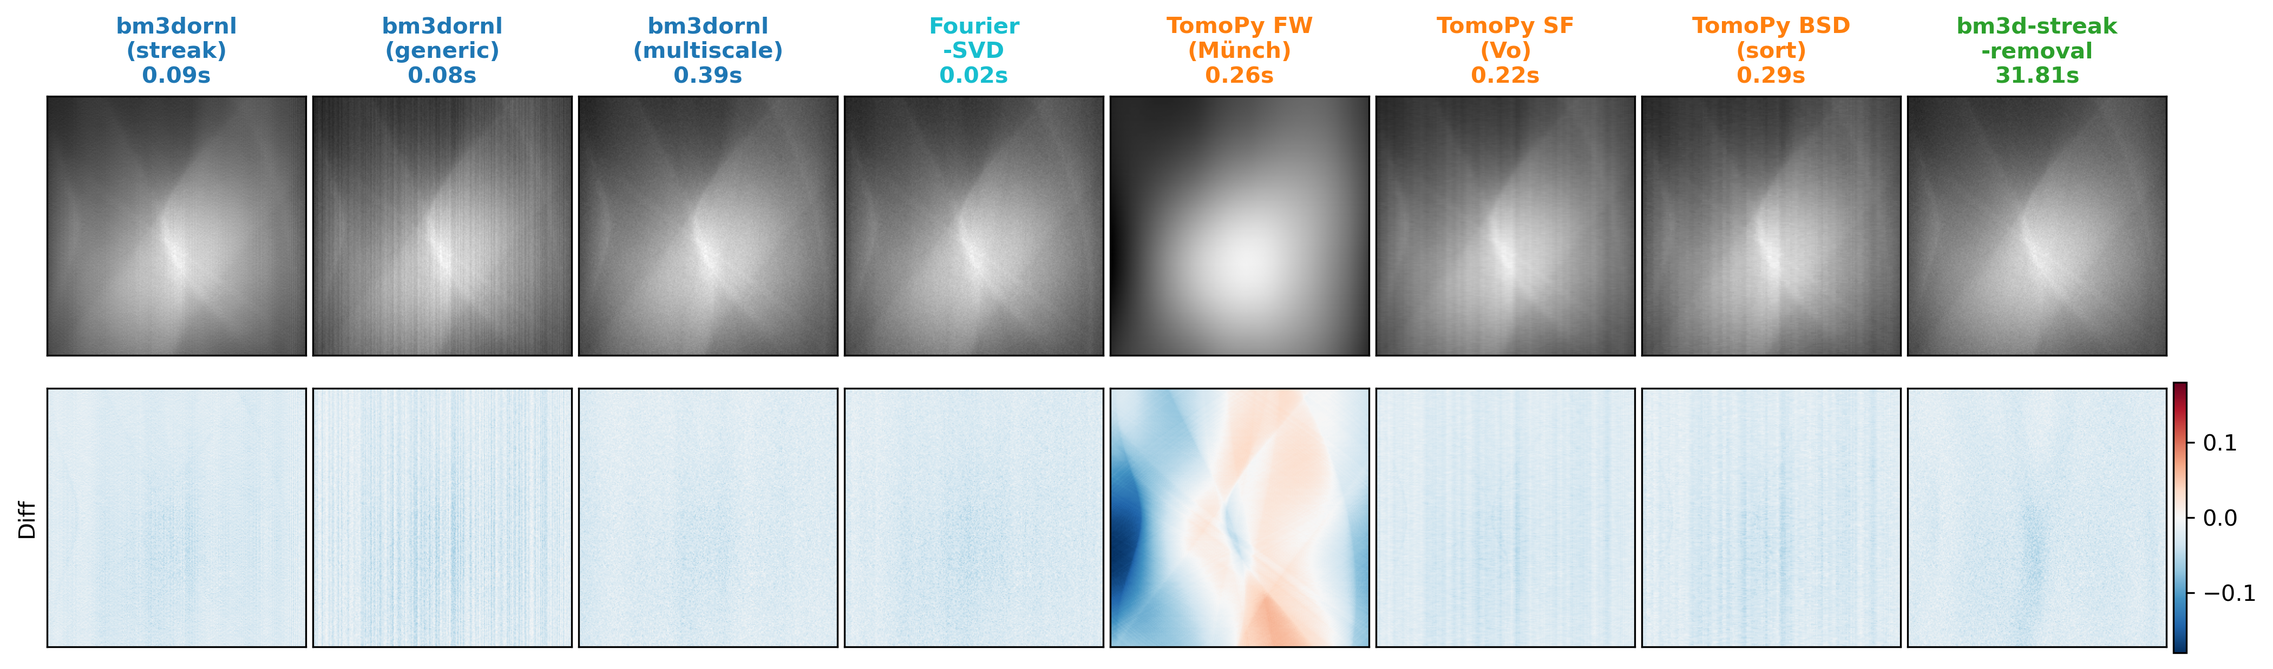
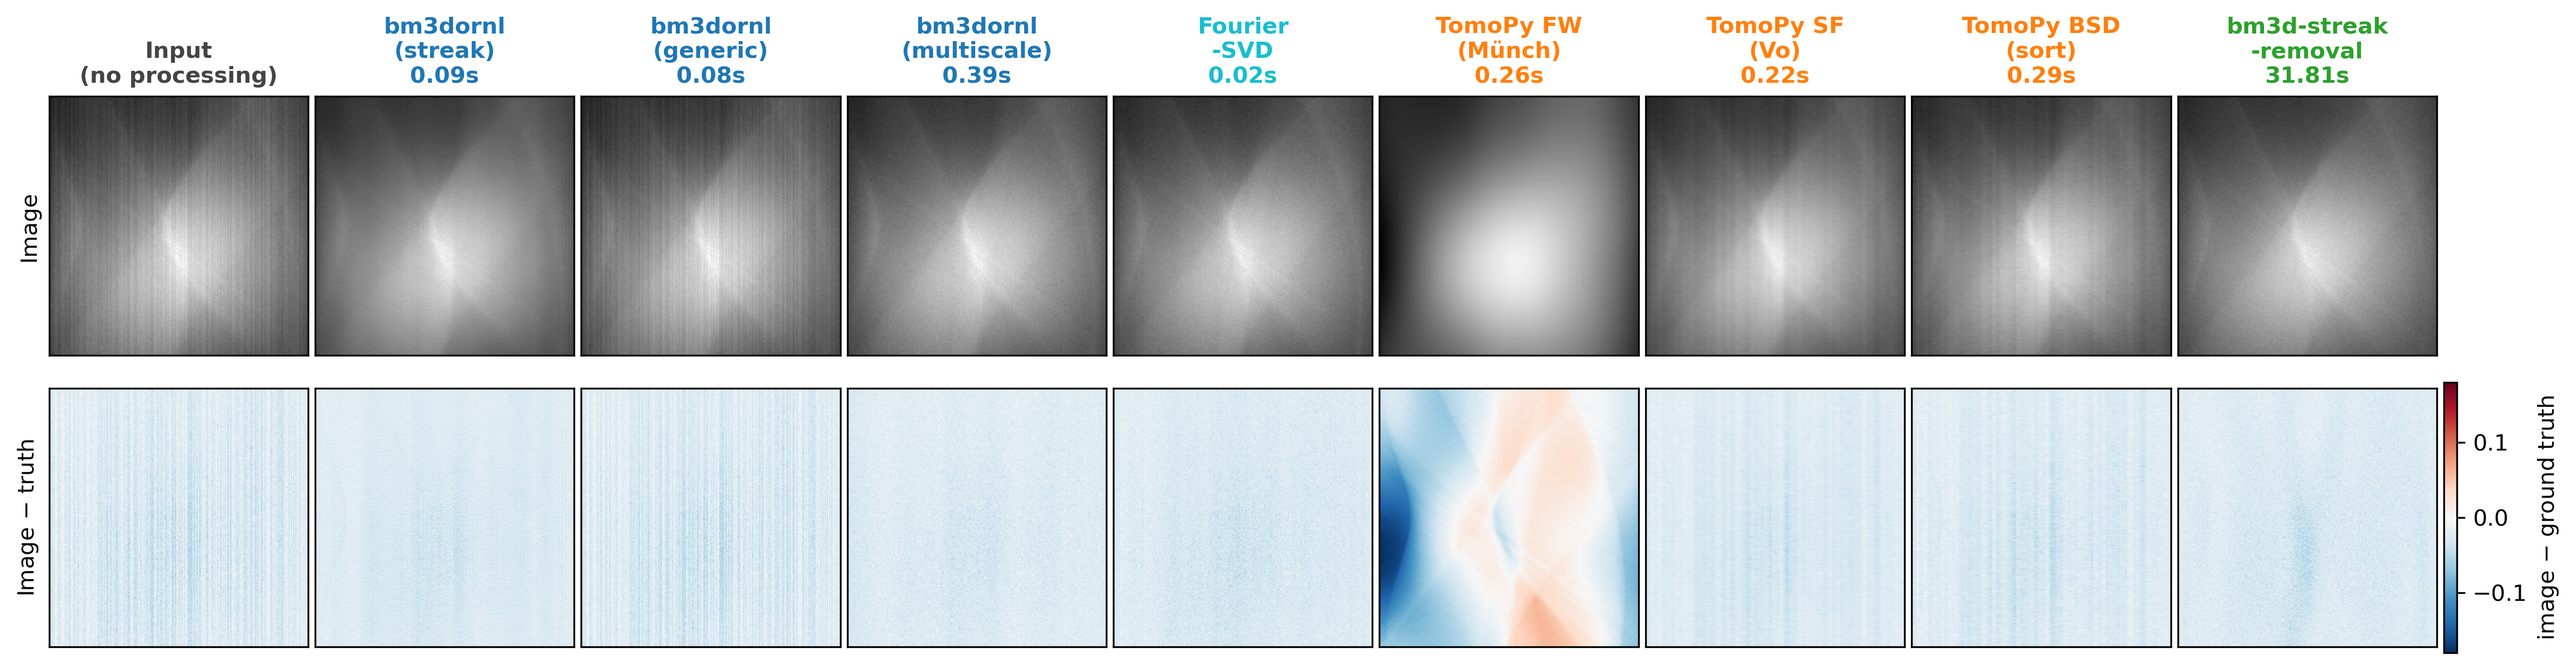
paper: fix the Figure 2 difference convention, add the input column, define SSIM and PSNR
The JOSS reviewer's three paper comments (#142). Figure 2's caption read the difference images (result minus ground truth) as blue = artifact removal, red = added artifacts; the sign of a residual carries no such meaning. The caption and the quality paragraph now describe the residual as image minus ground truth (red above, blue below, white agreement). A first column shows the unprocessed input and its residual so the artifacts are visible before any method runs. The uniform blue tint shared by every column, input included, is explained: the benchmark rescales the artifact-laden input to [0, 1], which pins its brightest column to the ground truth maximum and leaves the bulk 3-4% low, and stripe removal preserves that level; the metrics normalise both images and do not see it. Per-method statements are backed by a residual decomposition (global a*truth+b fit removed, then column-mean RMS vs remainder) run on the benchmark outputs: generic BM3D leaves the stripes essentially unchanged, streak/multiscale/Fourier-SVD/bm3d-streak-removal reduce them 2.5-4.5x, TomoPy SF/BSD leave somewhat more stripe but halve the pixel noise, which is what the normalised metrics reward. SSIM and PSNR are defined at first use in the text and in the Figure 3 caption; Wang et al. 2004 added to the bibliography for SSIM. Figures 1 and 3 are untouched.

Assisted-With: Claude Fable 5 <noreply@anthropic.com>

diff --git a/paper/generate_figures.py b/paper/generate_figures.py
@@ -4,7 +4,7 @@ Generate publication-quality figures for JOSS paper.
 
 Produces three separate figures:
 - Figure 1: Input (with ring artifacts) + Ground Truth (clean)
-- Figure 2: Method results (cropped) + Difference images
+- Figure 2: Unprocessed input + method results (cropped) + Difference images
 - Figure 3: Metrics (Processing time + PSNR vs SSIM)
 """
 
@@ -187,20 +187,27 @@ def figure2_results_diff(data):
     """
     Figure 2: Method results (cropped regions) + Difference images
 
-    Layout: 6 columns × 2 rows + colorbar column
-    Row 1: Cropped results for each method
-    Row 2: Difference from ground truth
+    Layout: 9 image columns × 2 rows + colorbar column
+    Column 1: the unprocessed input, so the reader sees what the artifacts
+              look like before any method runs
+    Columns 2-9: one per method
+    Row 1: Cropped image
+    Row 2: Difference from ground truth (image minus ground truth)
     Colorbar: spans row 2 only (applies to diff images)
     """
     # Extract cropped ground truth for diff calculation
     gt_crop = data["ground_truth"][CROP_Y, CROP_X]
 
+    # Column definitions: the input first, then every method. The input has
+    # no processing time, so its title carries no timing line.
+    columns = [{"key": "input", "name": "Input\n(no processing)", "color": "#444444", "timed": False}]
+    columns += [dict(method, timed=True) for method in METHODS]
+
     # Prepare cropped data
     crops = []
     diffs = []
-    for method in METHODS:
-        result = data[method["key"]]
-        crop = result[CROP_Y, CROP_X]
+    for column in columns:
+        crop = data[column["key"]][CROP_Y, CROP_X]
         crops.append(crop)
         diffs.append(crop - gt_crop)
 
@@ -212,49 +219,54 @@ def figure2_results_diff(data):
     diff_vmin, diff_vmax = -diff_absmax, diff_absmax
 
     # Create figure with GridSpec
-    # 8 image columns + 1 narrow colorbar column
+    # 9 image columns (input + 8 methods) + 1 narrow colorbar column
     # Crop is 250x250 pixels, so aspect is 1:1
-    # Figure width: 8 images + colorbar, height: 2 rows
-    fig = plt.figure(figsize=(17, 4.5), dpi=DPI)
+    n_images = len(columns)
+    fig = plt.figure(figsize=(2.125 * n_images, 4.5), dpi=DPI)
     gs = GridSpec(
-        2, 9,  # 2 rows, 9 columns (8 images + 1 colorbar)
+        2, n_images + 1,
         figure=fig,
-        width_ratios=[1, 1, 1, 1, 1, 1, 1, 1, 0.05],  # colorbar is narrow
+        width_ratios=[1] * n_images + [0.05],  # colorbar is narrow
         height_ratios=[1, 1],
         wspace=0.03,
         hspace=0.08
     )
 
-    # Row 1: Cropped results
-    for i, (method, crop) in enumerate(zip(METHODS, crops)):
+    # Row 1: Cropped images
+    for i, (column, crop) in enumerate(zip(columns, crops)):
         ax = fig.add_subplot(gs[0, i])
         ax.imshow(crop, cmap="gray", aspect=1, vmin=crop_vmin, vmax=crop_vmax)
 
-        # Title with method name and time
-        time_str = f"{METRICS[method['key']]['time']:.2f}s"
-        title = f"{method['name']}\n{time_str}"
-        ax.set_title(title, fontsize=ANNOTATION_SIZE, color=method["color"], fontweight="bold")
+        # Title with name and, for methods, processing time
+        title = column["name"]
+        if column["timed"]:
+            title += f"\n{METRICS[column['key']]['time']:.2f}s"
+        ax.set_title(title, fontsize=ANNOTATION_SIZE, color=column["color"], fontweight="bold")
 
         ax.set_xticks([])
         ax.set_yticks([])
 
-    # Row 2: Difference images
+        if i == 0:
+            ax.set_ylabel("Image", fontsize=ANNOTATION_SIZE)
+
+    # Row 2: Difference images, all on one zero-centered scale so the columns
+    # can be compared directly. Red: above the ground truth; blue: below.
     diff_im = None
-    for i, (method, diff) in enumerate(zip(METHODS, diffs)):
+    for i, diff in enumerate(diffs):
         ax = fig.add_subplot(gs[1, i])
         diff_im = ax.imshow(diff, cmap="RdBu_r", aspect=1, vmin=diff_vmin, vmax=diff_vmax)
 
         ax.set_xticks([])
         ax.set_yticks([])
 
-        # Set ylabel only for the first diff image
         if i == 0:
-            ax.set_ylabel("Diff", fontsize=ANNOTATION_SIZE)
+            ax.set_ylabel("Image $-$ truth", fontsize=ANNOTATION_SIZE)
 
     # Colorbar spanning row 2 only
-    cbar_ax = fig.add_subplot(gs[1, 8])
+    cbar_ax = fig.add_subplot(gs[1, n_images])
     cbar = fig.colorbar(diff_im, cax=cbar_ax)
     cbar.ax.tick_params(labelsize=TICK_SIZE)
+    cbar.set_label("image $-$ ground truth", fontsize=ANNOTATION_SIZE)
 
     output_path = OUTPUT_DIR / "figure2_results.png"
     fig.savefig(output_path, dpi=DPI, bbox_inches="tight", facecolor="white")

diff --git a/paper/paper.md b/paper/paper.md
@@ -66,17 +66,19 @@ The BM3D-based methods span a performance range: standard BM3DORNL processes sin
 TomoPy methods achieve processing times of 0.22--0.29 seconds.
 Cross-platform performance differs substantially: TomoPy runs 2.5--3$\times$ slower on Apple Silicon than Linux x86_64 (likely due to unoptimized C extensions), whereas BM3DORNL runs at comparable speeds (within 10%) across platforms due to its Rust backend.
 
-**Quality analysis:** \autoref{fig:results} shows cropped results from all eight methods with their difference images (result minus ground truth).
-The benchmark reveals that quality metrics alone do not tell the full story.
-TomoPy SF achieves the highest SSIM (0.987, see \autoref{fig:metrics}(b)), but difference image analysis shows residual vertical stripes in its output.
-This occurs because SSIM uses local windows ($7\times7$ or $11\times11$ pixels), and narrow vertical stripes affect few pixels per window.
-Notably, all BM3DORNL variants achieve SSIM scores of 0.943--0.976, with multiscale BM3DORNL reaching 0.976 -- above the reference bm3d-streak-removal implementation (0.967).
-Fourier-SVD accomplishes this at 0.017 seconds, demonstrating that aggressive artifact removal and high-quality reconstruction are achievable without computationally expensive multi-scale processing.
-The difference images reveal that all BM3DORNL variants produce clean vertical patterns, indicating successful artifact removal, while TomoPy methods leave faint residual artifacts.
+**Quality analysis:** We quantify agreement with the ground truth by the peak signal-to-noise ratio (PSNR, in dB) and the structural similarity index measure (SSIM) [@wang2004], both computed after rescaling result and ground truth to $[0, 1]$.
+\autoref{fig:results} shows the crop marked in \autoref{fig:input} for the unprocessed input and for all eight methods, each with its difference from the ground truth (image minus ground truth: red above, blue below).
+Every column, the input included, carries the same faint blue tint: the benchmark rescales the artifact-laden input to $[0, 1]$, which pins its brightest column to the ground truth's maximum and leaves the bulk of the image 3--4% low, and stripe removal preserves that level rather than restoring it.
+The tint is therefore not a sign of artifact removal; the artifacts are the vertical stripes, shown in full in the input column, and a method's quality is read from how much of that stripe pattern remains in its own difference image.
+Generic BM3DORNL, a standard denoiser rather than a streak remover, leaves the stripes essentially untouched; streak and multiscale BM3DORNL, Fourier-SVD, and bm3d-streak-removal reduce them to a near-uniform residual.
+TomoPy SF and BSD leave somewhat stronger stripe residue than those four but also smooth the pixel noise, which the BM3D-based methods largely preserve, and this is why they score highest on both metrics (SSIM 0.987 for SF, see \autoref{fig:metrics}(b)): SSIM is computed over local windows ($7\times7$ or $11\times11$ pixels), and narrow vertical stripes affect few pixels per window, so the metrics reward noise reduction more than stripe removal.
+TomoPy FW alters the low-frequency content of the sinogram, visible as the large red and blue regions in its difference image, and that distortion dominates its error.
+All BM3DORNL variants achieve SSIM scores of 0.943--0.976, with multiscale BM3DORNL reaching 0.976 -- above the reference bm3d-streak-removal implementation (0.967).
+Fourier-SVD reaches 0.951 in 0.017 seconds while reducing the stripes to a near-uniform residual, showing that most of the artifact can be removed without multi-scale processing.
 
-![Method comparison. Top row: Cropped results from each method with processing times. Bottom row: Difference images (result minus ground truth) using a zero-centered RdBu colormap---blue indicates artifact removal, red indicates added artifacts. Data from Linux x86_64.\label{fig:results}](figure2_results.png){ width=100% }
+![Method comparison on the crop marked in \autoref{fig:input}. Top row: the unprocessed input, then the result of each method with its processing time. Bottom row: difference from the ground truth (image minus ground truth) on one zero-centered red--blue scale shared by all columns; red marks pixels above the ground truth, blue marks pixels below it, and white marks agreement, so a perfect result would leave a uniformly white difference image. The faint blue tint common to every column, including the input, comes from the benchmark's rescaling of the input to $[0, 1]$ and is not a sign of removal; the artifacts are the vertical stripes, complete in the input column and remaining in the others to the extent each method left them. Data from Linux x86_64.\label{fig:results}](figure2_results.png){ width=100% }
 
-![Performance metrics (Linux x86_64, n=100 runs). (a) Processing time comparison on linear scale, showing Fourier-SVD's 1900$\times$ speedup and standard BM3DORNL's 340$\times$ speedup over bm3d-streak-removal. (b) Quality metrics (PSNR vs SSIM) showing trade-offs between methods. BM3DORNL variants (blue/cyan), TomoPy (orange), bm3d-streak-removal (green).\label{fig:metrics}](figure3_metrics.png){ width=100% }
+![Performance metrics (Linux x86_64, n=100 runs). (a) Processing time comparison on linear scale, showing Fourier-SVD's 1900$\times$ speedup and standard BM3DORNL's 340$\times$ speedup over bm3d-streak-removal. (b) Quality metrics, peak signal-to-noise ratio (PSNR) against structural similarity index measure (SSIM), showing trade-offs between methods. BM3DORNL variants (blue/cyan), TomoPy (orange), bm3d-streak-removal (green).\label{fig:metrics}](figure3_metrics.png){ width=100% }
 
 **Platform support:** bm3d-streak-removal is unavailable on Apple Silicon (x86_64 binaries only), incompatible with Python 3.11+, and restricted to non-commercial use.
 BM3DORNL provides native performance on all platforms, supports Python 3.12+, and uses the MIT license for unrestricted commercial use.
